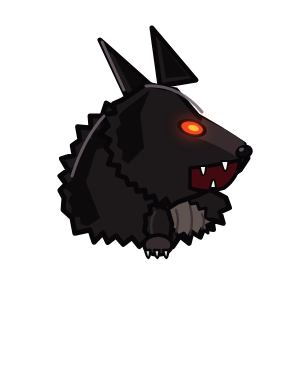
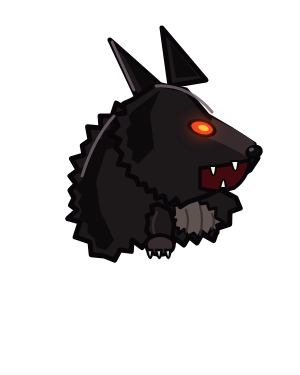
Lean the beast toward the visor and let the back fur spill over the pack

Changed region(s): [[0.18, 0.0587, 0.9, 0.704]]

diff --git a/UnknownsCollectionPlugin.cs b/UnknownsCollectionPlugin.cs
@@ -41,7 +41,7 @@ public class UnknownsCollectionPlugin : BasePlugin
 {
     public const string PluginGuid = "com.tormod.unknownscollection";
     public const string PluginName = "Unknown's Collection";
-    public const string PluginVersion = "1.1.4.24";
+    public const string PluginVersion = "1.1.4.25";
     public static readonly System.Version Version = System.Version.Parse(PluginVersion);
 
     // MODULE BYTES, not callIds (since the RPC consolidation).
